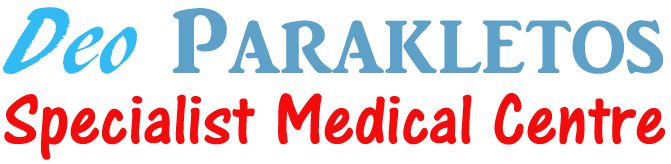
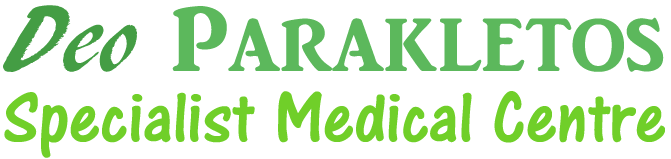
Colour refactor

diff --git a/app/assets/stylesheets/main.css b/app/assets/stylesheets/main.css
@@ -15,6 +15,10 @@ body {
     position: relative;
 }
 
+#navbar {
+    background: #f5f5f5;
+}
+
 #nav-links li a {
     transition: 0.3s ease-in-out;
     -webkit-transition: 0.3s ease-in-out;
@@ -24,16 +28,25 @@ body {
 }
 
 #nav-links li a:hover, a.selected {
-    background: #000000;
+    background: #449d44;
 }
 
 #topmost {
     background: #ffffff;
     padding: 0.5em 0;
+    border-bottom: 1px solid #449d44;
+}
+
+#topmost a {
+    color: #3c763d;
+}
+
+.second-top {
+    padding: 0.5em 0;
 }
 
 #links_container {
-    background: #2e6da4;
+    background: #5cb85c;
 }
 
 #navbar-header {
@@ -80,7 +93,7 @@ body {
 }
 
 .logo {
-    height: 70px;
+    height: 3.8em;
     width: auto;
 }
 
@@ -100,7 +113,7 @@ body {
 
 #row-2.btn-default:hover {
     text-decoration: none;
-    color: #337ab7;
+    color: #5cb85c;
 }
 
 .block-details {
@@ -115,7 +128,7 @@ body {
 
 .block-details:hover {
     background: #f8f8f8;
-    border-bottom: 2px solid #337ab7;
+    border-bottom: 2px solid #5cb85c;
 }
 
 .blue {
@@ -126,7 +139,7 @@ body {
 }
 
 .block-details:hover .blue {
-    color: #337ab7;
+    color: #5cb85c;
 }
 
 .block-details a.btn {
@@ -137,12 +150,12 @@ body {
 }
 
 .block-details a.btn:hover {
-    background: #337ab7;
+    background: #5cb85c;
     color: #ffffff;
 }
 
 #row-3 {
-    background: #2e6da4;
+    background: #5cb85c;
     color: #ffffff;
     padding-top: 4em;
     padding-bottom: 4em;
@@ -161,7 +174,7 @@ body {
 }
 
 .doctor:hover .doctor-image {
-    background: #337ab7;
+    background: #5cb85c;
 }
 
 .doctor-bio {
@@ -215,6 +228,7 @@ address {
     bottom: 0;
     padding: 1em;
     background: #666666;
+    border-top: 2px solid #5cb85c;
     color: #ebebeb;
 }
 
